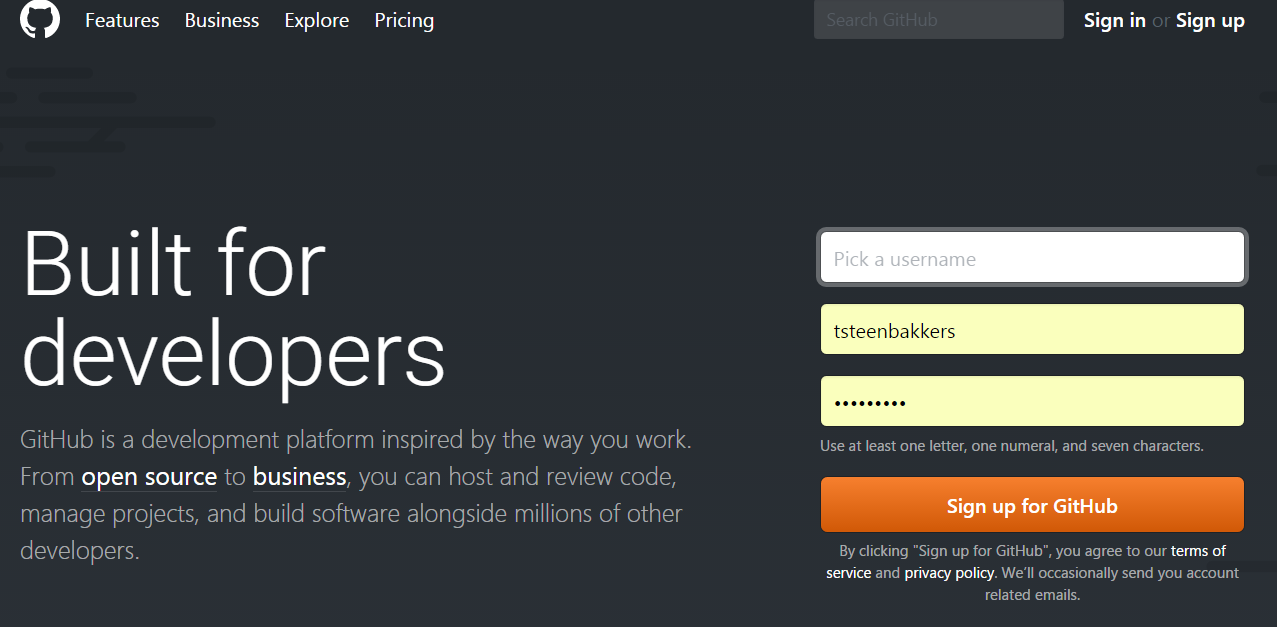
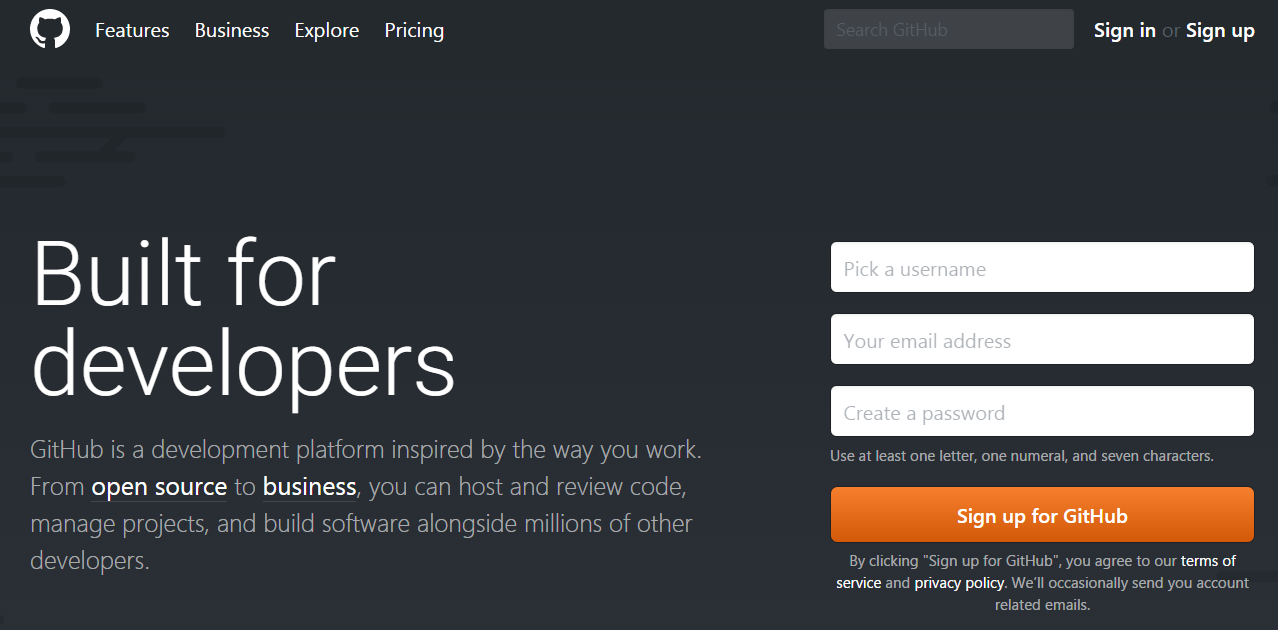
updated several pics
updated Config with correct alias

update readme to have the same menu items as install.

updated install.md

diff --git a/docs/Install.md b/docs/Install.md
@@ -21,9 +21,7 @@ In this Chapter we will discuss the following topics:
 
 - Installation of Jenkins
 - additional Software needed for the bootcamp
-- set up a GitHub account.
-
-Note that we only discuss the windows versions of the software here
+- set up a GitHub account and fork the bootcamp example
 
 ## Jenkins
 Jenkins Can be downloaded from [Jenkins.io](http://www.Jenkins.io)
@@ -32,7 +30,11 @@ We will be using the LTS version (2.46.1)
 
 ![](/docs/images/Install/install-0.png "Download LTS")
 
+From the main website click "Download Jenkins"
+
 ![](/docs/images/Install/install-00.png "Choose Version")
+
+You can either click the java War file or select a version to your liking from the dropdown menu.
 
 
 ### install instructions
@@ -101,49 +103,132 @@ Instructions with screens are added in the [Detailed instrcutions](/docs/Install
 ### Git
 
 ![](/docs/images/Install/git-1.png "Logo Title Text 1")
+
+open the installer and accept the terms and agreements
+
 ![](/docs/images/Install/git-2.png "Logo Title Text 1")
-![](/docs/images/Install/git-3.png "Logo Title Text 1")   
+
+Choose a path to install (make a note of this path for configuration later)
+
+![](/docs/images/Install/git-3.png "Logo Title Text 1")
+
+These are the default option. Change to your liking
+
 ![](/docs/images/Install/git-4.png "Logo Title Text 1")
+
+Default "Git" change if you want so.
+
 ![](/docs/images/Install/git-5.png "Logo Title Text 1")
+
+This is the default option. First option can also be used if you don't using CLI only.
+
 ![](/docs/images/Install/git-6.png "Logo Title Text 1")
+
+Use OpenSSH
+
 ![](/docs/images/Install/git-7.png "Logo Title Text 1")
+
+Use OpenSSL
+
 ![](/docs/images/Install/git-8.png "Logo Title Text 1")
+
+For windows users select the top option.
+
 ![](/docs/images/Install/git-9.png "Logo Title Text 1")
+
+Use MinTTY
+
 ![](/docs/images/Install/git-10.png "Logo Title Text 1")
+
+Select top two options and click "Install"
+
 ![](/docs/images/Install/git-11.png "Logo Title Text 1")
+
+Grab a sip of your coffee. Maybe two... no more though... we don't want you tweaking out on caffeine ^_^
+
 ![](/docs/images/Install/git-12.png "Logo Title Text 1")
+
+Voila! uncheck View release notes because noone ever reads those.
 
 ### Java SDK
 
 ![](/docs/images/Install/Java-1.png "Logo Title Text 1")
+
+Open installer
+
 ![](/docs/images/Install/Java-2.png "Logo Title Text 1")
+
+Click Next
+
 ![](/docs/images/Install/Java-3.png "Logo Title Text 1")
+
+Select all features to be installed (default). Change path if you want. 
+Make a note of the install [path for configuration later]
+
 ![](/docs/images/Install/Java-4.png "Logo Title Text 1")
+
+Blindfold yourself (can these add be any bigger....!)
+
 ![](/docs/images/Install/Java-5.png "Logo Title Text 1")
 
+Click Close.
+
 ## github account
+
 Since this bootcamp uses git it is mandatory to have a github account. If you already have an account you can skip creating one and Fork https://github.com/jeroenschepens/bootcamp-jenkins-example
 - Go to [Github](http://www.github.com) and create a user account.
 - go to [the bootcamps repo](https://github.com/jeroenschepens/bootcamp-jenkins-example)
 - Fork the repository into your own account.
-- if you're unsure how to use GitHub it is advised to do the [Hello World](https://guides.github.com/activities/hello-world/) course. Or [check out the video guides](https://www.youtube.com/githubguides)
-- the actions you need to focus on are
-  - Fork
-  - Clone
-  - Commit
-  - Push
+- clone the repo locally
+
+
+
+### Create account
 
 ![](/docs/images/Install/gh-1.png "Logo Title Text 1")
+
+Choose a username, fill in your E-mal address and choose a password
+
 ![](/docs/images/Install/gh-2.png "Logo Title Text 1")
+
+Choose the free plan.
+
 ![](/docs/images/Install/gh-3.png "Logo Title Text 1")
 
+if you're unsure how to use GitHub it is advised to do the [Hello World](https://guides.github.com/activities/hello-world/) course. Or [check out the video guides](https://www.youtube.com/githubguides)
+the actions you need to focus on are
+- Fork
+- Clone
+- Commit
+- Push
 
-Now go and verify your e-mail address.
+### Verify Account
 
 ![](/docs/images/Install/gh-vf-1.jpg "Logo Title Text 1")
+
+Open your email and click the verify link
+
 ![](/docs/images/Install/gh-vf-2.jpg "Logo Title Text 1")
+
+Sign in with yournew credenmtials
+
 ![](/docs/images/Install/gh-vf-3.jpg "Logo Title Text 1")
 
+Enjoy GitHub
+
 ![](/docs/images/Install/gh-4.png "Logo Title Text 1")
+
+go to https://github.com/jeroenschepens/bootcamp-jenkins-example
+Click "Fork"
+
 ![](/docs/images/Install/gh-5.png "Logo Title Text 1")
+
+Watch the awesome animation :)
+
 ![](/docs/images/Install/gh-6.png "Logo Title Text 1")
+
+- Click the Dropdown menu
+- Use the copy button to get the *.git link used in jenkins later (https://github.com/__username__/bootcamp-jenkins-example.git)
+  - use the *.git link in your tool of liking to clone the repo locally
+  - Click open in Desktop to open the source in [GitHub Desktop](https://desktop.github.com/)
+  - alternatively you can use the GIT CLI and download the zip.

diff --git a/README.md b/README.md
@@ -30,7 +30,7 @@ In this Chapter we will discuss the following topics:
 
 - Installation of Jenkins
 - additional Software needed for the bootcamp
-- set up a GitHub account.
+- set up a GitHub account and fork the bootcamp example
 
 Note that we only discuss the windows versions of the software here
 
@@ -50,10 +50,20 @@ Instructions with screens are added in the [Detailed instrcutions](/docs/Install
 - Java SDK can be downloaded [here](http://www.oracle.com/technetwork/java/javase/downloads/index.html)
 
 ## github account
-Since this bootcamp uses git it is mandatory to have a github account.
-- Go to [Github](www.github.com) and create a user account.
+Since this bootcamp uses git it is mandatory to have a github account. If you already have an account you can skip creating one and Fork https://github.com/jeroenschepens/bootcamp-jenkins-example
+- Go to [Github](http://www.github.com) and create a user account.
 - go to [the bootcamps repo](https://github.com/jeroenschepens/bootcamp-jenkins-example)
 - Fork the repository into your own account.
+- clone the repo locally
+
+if you're unsure how to use GitHub it is advised to do the [Hello World](https://guides.github.com/activities/hello-world/) course. Or [check out the video guides](https://www.youtube.com/githubguides)
+the actions you need to focus on are
+- Fork
+- Clone
+- Commit
+- Push
+
+or ask one of the instructors to help out
 
 # of we moeten iets kunnen met local git repos. is mij niet geluk. Heb daarom een instructie toegevoegd om te forken.
 

diff --git a/docs/Config.md b/docs/Config.md
@@ -1,3 +1,3 @@
 click [here](../README.md) to go back to the main README. 
 
-If you haven't done so already there is additional software available - [Configure Jenkins](/docs/install.md#Additional-Software)
+If you haven't done so already there is additional software available - [Additional Software](/docs/install.md#Additional-Software)
